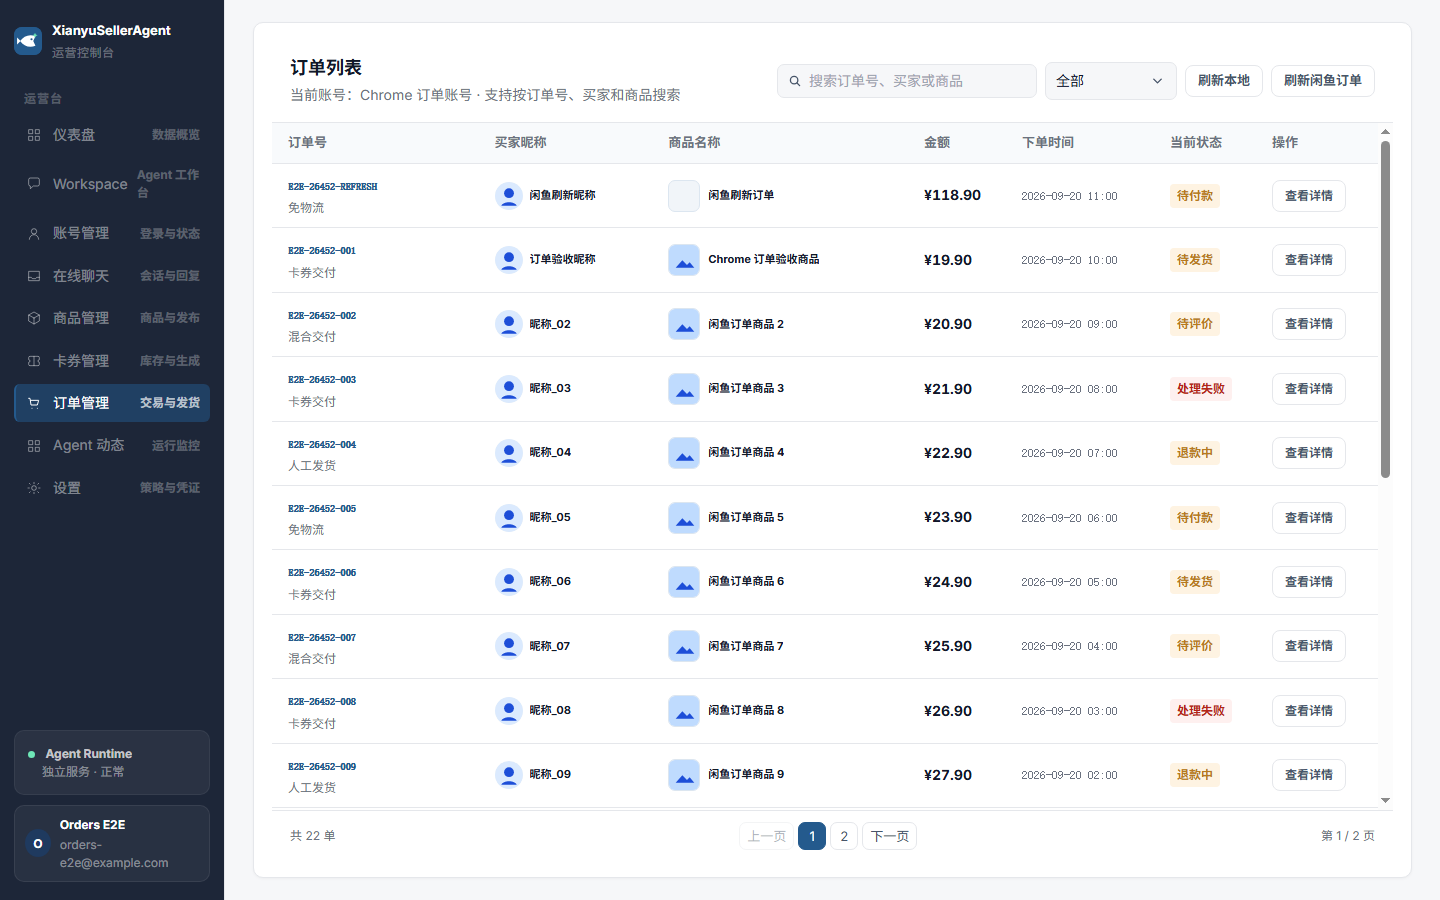
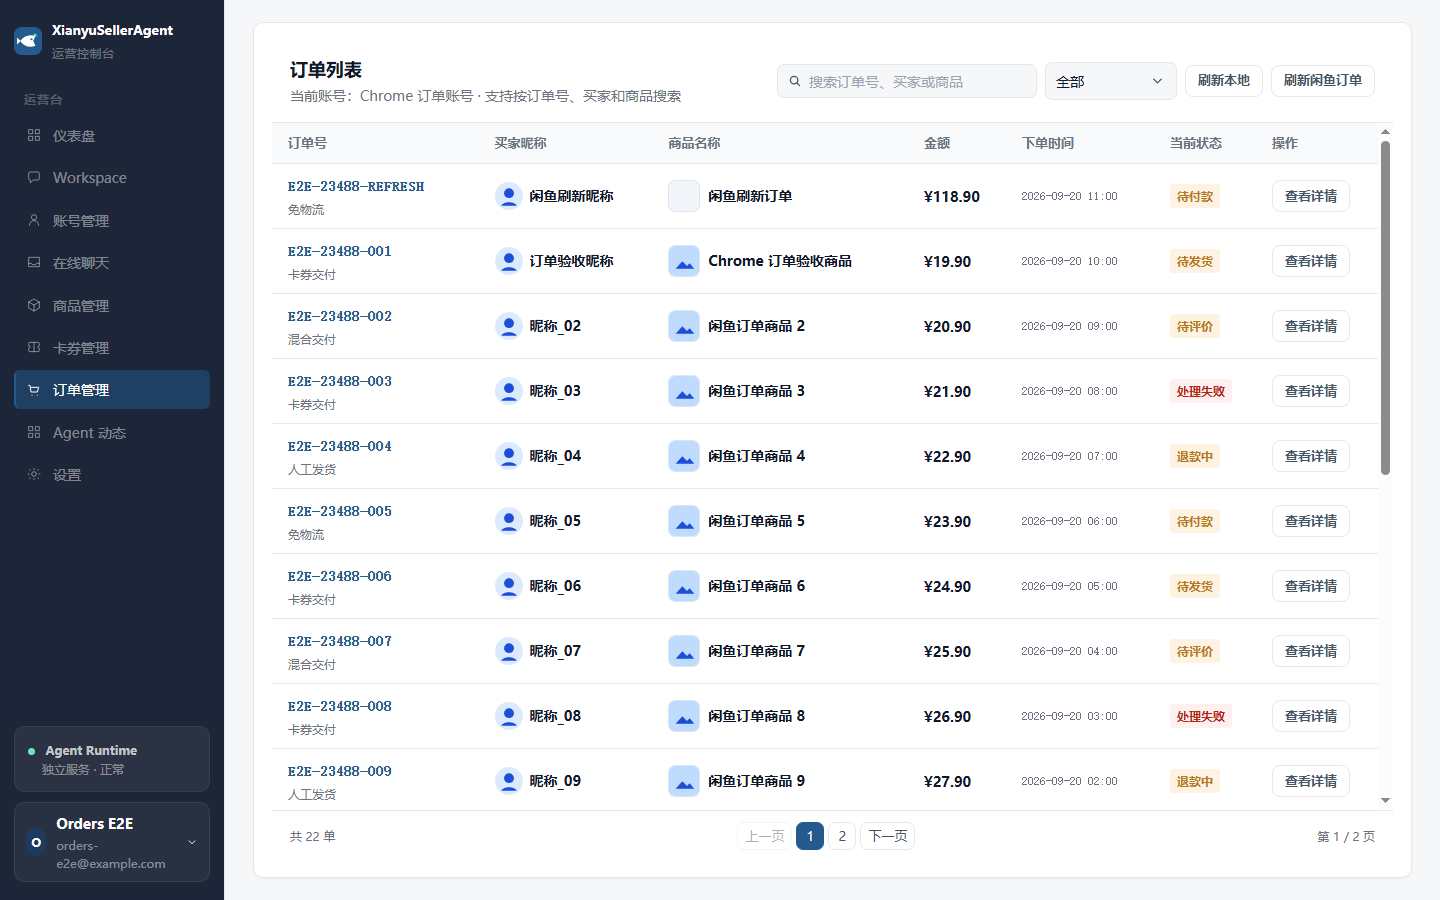
fix: align order typography and drawer screenshots

diff --git a/apps/web/src/features/orders/components/orders.css b/apps/web/src/features/orders/components/orders.css
@@ -1,51 +1,52 @@
 .orders-domain{max-width:none;min-width:0;min-height:0;height:100%}
 .orders-panel{display:flex;flex:1;min-height:0;flex-direction:column;padding:0;overflow:hidden}
 .orders-toolbar{display:flex;justify-content:space-between;align-items:center;gap:14px;padding:16px 18px;border-bottom:1px solid var(--border);background:#fff}
-.orders-toolbar h2{margin-bottom:3px;font-size:14px}
-.orders-toolbar p{font-size:11px}
+.orders-toolbar h2{margin-bottom:3px;font-size:16px;line-height:1.5}
+.orders-toolbar p{font-size:13px;line-height:1.5}
 .orders-toolbar-actions{display:flex;align-items:center;justify-content:flex-end;gap:8px;flex-wrap:wrap;min-width:0}
 .orders-toolbar-actions .orders-filter-row{flex:0 1 auto}
 .orders-filters-wrap{display:flex;justify-content:space-between;align-items:center;gap:12px;padding:12px 18px;border-bottom:1px solid var(--border);background:#fff}
 .orders-filter-row{display:flex;align-items:center;gap:8px;flex-wrap:wrap;min-width:0}
 .orders-search{width:260px;max-width:260px}
 .orders-status-select{min-width:132px}
-.orders-context-error{color:var(--danger);font-size:10px;font-weight:700;white-space:nowrap}
+.orders-context-error{color:var(--danger);font-size:12px;line-height:1.5;font-weight:700;white-space:nowrap}
 .orders-table-region{display:flex;flex:1;min-height:0;flex-direction:column}
 .orders-table-scroll{flex:1;min-height:0;max-height:none;overflow:auto;scrollbar-gutter:stable}
 .orders-table{min-width:920px;border:0}
-.orders-row{display:grid;grid-template-columns:minmax(170px,1.2fr) minmax(140px,1fr) minmax(180px,1.5fr) 88px 138px 92px 90px;gap:10px;align-items:center;min-height:64px;padding:10px 16px;border-bottom:1px solid var(--border);font-size:11px;color:var(--text)}
+.orders-row{display:grid;grid-template-columns:minmax(170px,1.2fr) minmax(140px,1fr) minmax(180px,1.5fr) 88px 138px 92px 90px;gap:10px;align-items:center;min-height:64px;padding:10px 16px;border-bottom:1px solid var(--border);font-size:14px;line-height:1.6;color:var(--text)}
 .orders-row:last-child{border-bottom:0}
-.orders-head{position:sticky;top:0;z-index:1;min-height:38px;background:#F8FAFC;color:var(--sub);font-size:10px;font-weight:700;white-space:nowrap}
-.orders-row small{display:block;margin-top:3px;color:var(--sub);font-size:9px;line-height:1.35;overflow:hidden;text-overflow:ellipsis;white-space:nowrap}
-.orders-order-link{display:block;padding:0;border:0;background:transparent;text-align:left;color:var(--link);font-size:10px}
-.orders-order-link strong{font-family:ui-monospace,SFMono-Regular,Menlo,monospace;font-size:10px}
+.orders-head{position:sticky;top:0;z-index:1;min-height:38px;background:#F8FAFC;color:var(--sub);font-size:13px;line-height:1.5;font-weight:700;white-space:nowrap}
+.orders-row small{display:block;margin-top:3px;color:var(--sub);font-size:12px;line-height:1.5;overflow:hidden;text-overflow:ellipsis;white-space:nowrap}
+.orders-order-link{display:block;padding:0;border:0;background:transparent;text-align:left;color:var(--link);font-size:14px;line-height:1.5}
+.orders-order-link strong{font-family:ui-monospace,SFMono-Regular,Menlo,monospace;font-size:14px;line-height:1.5}
 .orders-order-link:hover strong{text-decoration:underline}
 .orders-buyer{display:flex;align-items:center;gap:7px;min-width:0}
-.orders-avatar{width:28px;height:28px;min-width:28px;min-height:28px;display:grid;place-items:center;overflow:hidden;aspect-ratio:1;border-radius:50%;background:#E7EFF7;color:var(--link);font-size:11px;font-weight:800;flex:0 0 auto}
+.orders-avatar{width:28px;height:28px;min-width:28px;min-height:28px;display:grid;place-items:center;overflow:hidden;aspect-ratio:1;border-radius:50%;background:#E7EFF7;color:var(--link);font-size:12px;line-height:1.5;font-weight:800;flex:0 0 auto}
 .orders-avatar img{display:block;width:28px;height:28px;max-width:none;max-height:none;border-radius:50%;object-fit:cover;object-position:center}
-.orders-buyer strong,.orders-product strong{display:block;overflow:hidden;text-overflow:ellipsis;white-space:nowrap;font-size:11px}
+.orders-buyer strong,.orders-product strong{display:block;overflow:hidden;text-overflow:ellipsis;white-space:nowrap;font-size:14px;line-height:1.5}
 .orders-product-missing{color:var(--sub);font-weight:500}
 .orders-product{display:flex;align-items:center;gap:8px;min-width:0}
 .orders-product-thumb{width:32px;height:32px;min-width:32px;min-height:32px;display:grid;place-items:center;overflow:hidden;aspect-ratio:1;border:1px solid #DCE6F0;border-radius:7px;background:#F1F5F9}
 .orders-product-thumb img{display:block;width:32px;height:32px;max-width:none;max-height:none;object-fit:cover;object-position:center}
 .orders-amount{font-weight:800;font-variant-numeric:tabular-nums;white-space:nowrap}
-.orders-time{font-family:ui-monospace,SFMono-Regular,Menlo,monospace;font-size:10px;color:var(--sub);white-space:nowrap}
-.orders-status{display:inline-flex;align-items:center;width:max-content;max-width:100%;padding:3px 7px;border-radius:4px;font-size:10px;font-weight:700;white-space:nowrap}
+.orders-time{font-family:ui-monospace,SFMono-Regular,Menlo,monospace;font-size:12px;line-height:1.5;color:var(--sub);white-space:nowrap}
+.orders-status{display:inline-flex;align-items:center;width:max-content;max-width:100%;padding:3px 7px;border-radius:4px;font-size:12px;line-height:1.5;font-weight:700;white-space:nowrap}
 .orders-status-success{color:var(--success);background:var(--success-bg)}
 .orders-status-warn{color:var(--warn);background:var(--warn-bg)}
 .orders-status-danger{color:var(--danger);background:var(--danger-bg)}
 .orders-status-info{color:var(--info);background:var(--soft-blue-bg)}
 .orders-status-neutral{color:var(--muted);background:#F1F5F9}
 .orders-row-actions{display:flex;gap:5px;white-space:nowrap}
-.btn-small{min-height:28px;padding:5px 8px;font-size:10px}
-.orders-pagination{display:flex;justify-content:space-between;align-items:center;gap:12px;padding:11px 18px;border-top:1px solid var(--border);background:#fff;color:var(--sub);font-size:10px}
+.btn-small{min-height:28px;padding:5px 8px;font-size:13px;line-height:1.45}
+body .app-viewport .orders-domain .orders-row-actions .btn-small{font-size:13px;line-height:1.45}
+.orders-pagination{display:flex;justify-content:space-between;align-items:center;gap:12px;padding:11px 18px;border-top:1px solid var(--border);background:#fff;color:var(--sub);font-size:12px;line-height:1.5}
 .orders-pagination>div{display:flex;align-items:center;gap:4px}
-.orders-page-button{min-width:28px;height:28px;padding:0 7px;border:1px solid var(--border);border-radius:7px;background:#fff;color:var(--muted);font-size:10px}
+.orders-page-button{min-width:28px;height:28px;padding:0 7px;border:1px solid var(--border);border-radius:7px;background:#fff;color:var(--muted);font-size:13px;line-height:1.45}
 .orders-page-button:hover:not(:disabled){border-color:#B9C8D9;background:#F8FAFC}
 .orders-page-button.active{border-color:var(--link);background:var(--link);color:#fff}
 .orders-page-button:disabled{cursor:not-allowed;opacity:.45}
 .orders-page-ellipsis{padding:0 2px;color:var(--axis)}
-.orders-state{display:flex;flex-direction:column;align-items:center;justify-content:center;gap:8px;min-height:180px;padding:28px;text-align:center;color:var(--sub);font-size:11px}
+.orders-state{display:flex;flex-direction:column;align-items:center;justify-content:center;gap:8px;min-height:180px;padding:28px;text-align:center;color:var(--sub);font-size:14px;line-height:1.6}
 .orders-panel>.orders-state{flex:1;min-height:0}
 .orders-state strong{color:var(--text);font-size:13px}
 .orders-state span{max-width:420px;line-height:1.55}
@@ -56,33 +57,34 @@
 .orders-drawer-backdrop{position:fixed;inset:0;z-index:40;display:flex;justify-content:flex-end;background:rgba(17,24,39,.3);backdrop-filter:blur(5px)}
 .orders-drawer{width:min(520px,100vw);height:100%;overflow:auto;background:#fff;box-shadow:-18px 0 50px rgba(17,24,39,.16)}
 .orders-drawer-head{display:flex;justify-content:space-between;align-items:flex-start;gap:14px;padding:20px 22px 16px;border-bottom:1px solid var(--border)}
-.orders-drawer-head h2{margin-bottom:5px;font-size:17px}
-.orders-drawer-head p{font-size:11px}
+.orders-drawer-head .eyebrow{font-size:12px;line-height:1.5}
+body .app-viewport .orders-drawer-head h2{margin-bottom:5px;font-size:20px;line-height:1.35}
+body .app-viewport .orders-drawer-head p{font-size:12px;line-height:1.5}
 .orders-drawer-body{display:grid;gap:22px;padding:20px 22px 32px}
-.orders-drawer-body h3{margin-bottom:10px;font-size:12px}
+.orders-drawer-body h3{margin-bottom:10px;font-size:16px;line-height:1.5}
 .orders-detail-summary{display:grid;grid-template-columns:1fr auto;gap:5px 12px;padding:14px;border:1px solid #D6E5F2;border-radius:10px;background:linear-gradient(180deg,#FBFDFF,#F5F9FC)}
-.orders-detail-price{grid-row:span 2;color:var(--brand);font-size:26px;font-weight:800;font-variant-numeric:tabular-nums}
-.orders-detail-muted{color:var(--sub);font-size:10px;text-align:right}
+.orders-detail-price{grid-row:span 2;color:var(--brand);font-size:28px;line-height:1.2;font-weight:800;font-variant-numeric:tabular-nums}
+.orders-detail-muted{color:var(--sub);font-size:12px;line-height:1.5;text-align:right}
 .orders-status-matrix{display:grid;grid-template-columns:repeat(2,minmax(0,1fr));gap:8px}
 .orders-status-cell{display:flex;align-items:center;justify-content:space-between;gap:8px;min-height:44px;padding:10px;border:1px solid var(--border);border-radius:8px;background:#fff}
-.orders-status-cell>span{color:var(--sub);font-size:10px}
+.orders-status-cell>span{color:var(--sub);font-size:12px;line-height:1.5}
 .orders-detail-list{display:grid;gap:0;margin:0;border:1px solid var(--border);border-radius:9px;overflow:hidden}
-.orders-detail-list>div{display:grid;grid-template-columns:78px 1fr;gap:12px;padding:11px 12px;border-bottom:1px solid var(--border);font-size:11px}
+.orders-detail-list>div{display:grid;grid-template-columns:78px 1fr;gap:12px;padding:11px 12px;border-bottom:1px solid var(--border);font-size:14px;line-height:1.6}
 .orders-detail-list>div:last-child{border-bottom:0}
-.orders-detail-list dt{color:var(--sub)}
-.orders-detail-list dd{margin:0;color:var(--text);font-weight:600}
-.orders-detail-list dd small{display:block;margin-top:3px;color:var(--sub);font-size:9px;font-weight:400}
+.orders-detail-list dt{color:var(--sub);font-size:12px;line-height:1.5}
+.orders-detail-list dd{margin:0;color:var(--text);font-size:14px;line-height:1.6;font-weight:600}
+.orders-detail-list dd small{display:block;margin-top:3px;color:var(--sub);font-size:12px;line-height:1.5;font-weight:400}
 .orders-detail-list a{color:var(--link);text-decoration:none}
 .orders-detail-list a:hover{text-decoration:underline}
 .orders-risk-note{display:flex;gap:10px;padding:12px;border:1px solid rgba(180,35,24,.18);border-radius:9px;background:var(--danger-bg)}
 .orders-risk-dot{width:7px;height:7px;margin-top:5px;border-radius:50%;background:var(--danger);flex:0 0 auto}
-.orders-risk-note strong{display:block;color:var(--danger);font-size:11px}
-.orders-risk-note p{margin:4px 0 3px;color:var(--text);font-size:11px}
-.orders-risk-note small{color:var(--danger);font-size:9px;line-height:1.45}
-.orders-audit-line{display:flex;flex-wrap:wrap;gap:7px;color:var(--sub);font-size:10px}
+.orders-risk-note strong{display:block;color:var(--danger);font-size:14px;line-height:1.5}
+.orders-risk-note p{margin:4px 0 3px;color:var(--text);font-size:14px;line-height:1.6}
+.orders-risk-note small{color:var(--danger);font-size:12px;line-height:1.5}
+.orders-audit-line{display:flex;flex-wrap:wrap;gap:7px;color:var(--sub);font-size:12px;line-height:1.5}
 .orders-audit-line span{padding:5px 7px;border-radius:6px;background:#F8FAFC}
-.orders-drawer-state{display:flex;flex-direction:column;align-items:center;justify-content:center;gap:10px;min-height:260px;padding:24px;color:var(--sub);font-size:11px;text-align:center}
-.orders-drawer-state strong{color:var(--text);font-size:13px}
+.orders-drawer-state{display:flex;flex-direction:column;align-items:center;justify-content:center;gap:10px;min-height:260px;padding:24px;color:var(--sub);font-size:14px;line-height:1.6;text-align:center}
+.orders-drawer-state strong{color:var(--text);font-size:15px;line-height:1.5}
 
 @media(max-width:900px){
   .orders-toolbar,.orders-filters-wrap{align-items:stretch;flex-direction:column}
@@ -104,7 +106,7 @@
   .orders-row:not(.orders-head)>:nth-child(5){grid-column:1/-1}
   .orders-row:not(.orders-head)>:nth-child(6){grid-column:1/-1}
   .orders-row:not(.orders-head)>:nth-child(7){grid-column:1/-1}
-  .orders-time{font-size:10px}
+  .orders-time{font-size:12px;line-height:1.5}
   .orders-pagination{align-items:stretch;flex-direction:column;padding:12px 16px}
   .orders-pagination>div{justify-content:center;order:3}
   .orders-drawer{width:100%;height:auto;max-height:92vh;border-radius:16px 16px 0 0;align-self:flex-end}

diff --git a/apps/web/src/features/orders/components/orders-typography.test.ts b/apps/web/src/features/orders/components/orders-typography.test.ts
@@ -1,0 +1,45 @@
+import { readFileSync } from 'node:fs';
+import { fileURLToPath } from 'node:url';
+import { describe, expect, it } from 'vitest';
+
+const ordersCss = readFileSync(fileURLToPath(new URL('./orders.css', import.meta.url)), 'utf8').replace(/\r\n/g, '\n');
+
+describe('order list and detail typography', () => {
+  it('keeps order table cells readable with the shared type scale', () => {
+    expect(ordersCss).toMatch(/\.orders-row\s*\{[^}]*font-size:\s*14px;[^}]*line-height:\s*1\.6;?/s);
+    expect(ordersCss).toMatch(/\.orders-head\s*\{[^}]*font-size:\s*13px;[^}]*line-height:\s*1\.5;?/s);
+    expect(ordersCss).toMatch(/\.orders-row small\s*\{[^}]*font-size:\s*12px;[^}]*line-height:\s*1\.5;?/s);
+    expect(ordersCss).toMatch(/\.orders-order-link\s*\{[^}]*font-size:\s*14px;[^}]*line-height:\s*1\.5;?/s);
+    expect(ordersCss).toMatch(/\.orders-order-link strong\s*\{[^}]*font-size:\s*14px;[^}]*line-height:\s*1\.5;?/s);
+    expect(ordersCss).toMatch(/\.orders-buyer strong,\.orders-product strong\s*\{[^}]*font-size:\s*14px;[^}]*line-height:\s*1\.5;?/s);
+    expect(ordersCss).toMatch(/\.orders-time\s*\{[^}]*font-size:\s*12px;[^}]*line-height:\s*1\.5;?/s);
+    expect(ordersCss).toMatch(/\.orders-status\s*\{[^}]*font-size:\s*12px;[^}]*line-height:\s*1\.5;?/s);
+    expect(ordersCss).toMatch(/\.btn-small\s*\{[^}]*font-size:\s*13px;[^}]*line-height:\s*1\.45;?/s);
+    expect(ordersCss).toMatch(/body \.app-viewport \.orders-domain \.orders-row-actions \.btn-small\s*\{[^}]*font-size:\s*13px;[^}]*line-height:\s*1\.45;?/s);
+    expect(ordersCss).toMatch(/\.orders-pagination\s*\{[^}]*font-size:\s*12px;[^}]*line-height:\s*1\.5;?/s);
+    expect(ordersCss).toMatch(/\.orders-page-button\s*\{[^}]*font-size:\s*13px;[^}]*line-height:\s*1\.45;?/s);
+    expect(ordersCss).not.toMatch(/\.orders-row\s*\{[^}]*font-size:\s*1[01]px;/s);
+    expect(ordersCss).not.toMatch(/\.orders-row small\s*\{[^}]*font-size:\s*9px;/s);
+  });
+
+  it('keeps order detail drawer headings, body text, and metadata readable', () => {
+    expect(ordersCss).toMatch(/\.orders-drawer-head \.eyebrow\s*\{[^}]*font-size:\s*12px;[^}]*line-height:\s*1\.5;?/s);
+    expect(ordersCss).toMatch(/body \.app-viewport \.orders-drawer-head h2\s*\{[^}]*font-size:\s*20px;[^}]*line-height:\s*1\.35;?/s);
+    expect(ordersCss).toMatch(/body \.app-viewport \.orders-drawer-head p\s*\{[^}]*font-size:\s*12px;[^}]*line-height:\s*1\.5;?/s);
+    expect(ordersCss).toMatch(/\.orders-drawer-state\s*\{[^}]*font-size:\s*14px;[^}]*line-height:\s*1\.6;?/s);
+    expect(ordersCss).toMatch(/\.orders-drawer-body h3\s*\{[^}]*font-size:\s*16px;[^}]*line-height:\s*1\.5;?/s);
+    expect(ordersCss).toMatch(/\.orders-detail-muted\s*\{[^}]*font-size:\s*12px;[^}]*line-height:\s*1\.5;?/s);
+    expect(ordersCss).toMatch(/\.orders-status-cell>span\s*\{[^}]*font-size:\s*12px;[^}]*line-height:\s*1\.5;?/s);
+    expect(ordersCss).toMatch(/\.orders-detail-list>div\s*\{[^}]*font-size:\s*14px;[^}]*line-height:\s*1\.6;?/s);
+    expect(ordersCss).toMatch(/\.orders-detail-list dt\s*\{[^}]*font-size:\s*12px;[^}]*line-height:\s*1\.5;?/s);
+    expect(ordersCss).toMatch(/\.orders-detail-list dd\s*\{[^}]*font-size:\s*14px;[^}]*line-height:\s*1\.6;?/s);
+    expect(ordersCss).toMatch(/\.orders-detail-list dd small\s*\{[^}]*font-size:\s*12px;[^}]*line-height:\s*1\.5;?/s);
+    expect(ordersCss).toMatch(/\.orders-risk-note strong\s*\{[^}]*font-size:\s*14px;[^}]*line-height:\s*1\.5;?/s);
+    expect(ordersCss).toMatch(/\.orders-risk-note p\s*\{[^}]*font-size:\s*14px;[^}]*line-height:\s*1\.6;?/s);
+    expect(ordersCss).toMatch(/\.orders-risk-note small\s*\{[^}]*font-size:\s*12px;[^}]*line-height:\s*1\.5;?/s);
+    expect(ordersCss).toMatch(/\.orders-audit-line\s*\{[^}]*font-size:\s*12px;[^}]*line-height:\s*1\.5;?/s);
+    expect(ordersCss).toMatch(/\.orders-drawer-state strong\s*\{[^}]*font-size:\s*15px;[^}]*line-height:\s*1\.5;?/s);
+    expect(ordersCss).not.toMatch(/\.orders-detail-list dd small\s*\{[^}]*font-size:\s*9px;/s);
+    expect(ordersCss).not.toMatch(/\.orders-risk-note small\s*\{[^}]*font-size:\s*9px;/s);
+  });
+});

diff --git a/docs/agent-worktree-registry.md b/docs/agent-worktree-registry.md
@@ -23,6 +23,7 @@
 
 | agent_id | slice_id | branch | worktree | owner | created_at | status | merge_commit | cleaned_at | notes |
 | --- | --- | --- | --- | --- | --- | --- | --- | --- | --- |
+| `root` | `orders-typography-20260922` | `fix/orders-typography-20260922` | `F:\ChenHai\Project\XianYuAgent-orders-typography-20260922` | Codex `/root` | `2026-09-22 23:59:18 +08:00` | `READY_FOR_REVIEW` | `-` | `-` | 订单表格正文 14px、表头 13px、时间/状态元数据 12px、按钮 13px；详情抽屉标题 20px、分区标题 16px、正文 14px、元数据 12px，并补充高优先级覆盖以抵御全局 typography 级联。订单定向 Vitest 8 文件/20 测试、Web typecheck、Web build、API build、Chrome/CDP 订单 E2E（含 computed-style 断言与桌面/移动列表及抽屉截图）通过；完整 Web Vitest 仍有 2 个既有 workspace/dashboard 失败，与本切片无关。 |
 | `root` | `products-detail-drawer-font-20260922` | `codex/products-detail-drawer-font-20260922` | `F:\ChenHai\Project\XianYuAgent-products-detail-drawer-font-20260922` | Codex `/root` | `2026-09-22 19:29:42 +08:00` | `CLEANED` | `a940fe5` / `8114c74` / `97310dd` | `2026-09-22 19:48:57 +08:00` | 商品详情抽屉正文 14px，标题/指标保留强调，来源/时间 12px，技术字段不低于 12px；补强抽屉标题级联保护为 20px。产品域 9 个测试文件/32 个测试、typecheck、build 通过。Chrome/CDP 字号断言通过，后续在既有空态布局断言处失败。Git worktree、分支、登记锁及本地目录已清理。 |
 | `root` | `workspace-chatgpt-ui-e2e-20260922` | `codex/workspace-chatgpt-ui-e2e-20260922` | `F:\ChenHai\Project\XianYuAgent-workspace-chatgpt-ui-e2e-20260922` | Codex `/root` | `2026-09-22 18:45:00 +08:00` | `READY_FOR_REVIEW` | `-` | `-` | 保留原始 Workspace HTML 设计稿，新增 v2 纵向 PC/Mobile 预览；实现 ChatGPT 式单列消息流、无头像与 reasoning/tool 默认折叠执行摘要；真实浏览器→API→PostgreSQL E2E 已通过，提交 `31f25d3` 待复审。 |
 | `root` | `products-table-font-20260922` | `codex/products-table-font-20260922` | `F:\ChenHai\Project\XianYuAgent-products-table-font-20260922` | Codex `/root` | `2026-09-22 19:07:34 +08:00` | `CLEANED` | `cf065d1` | `2026-09-22 19:21:51 +08:00` | 商品目录表格正文/标题主文本 14px，标题副信息/时间元数据 12px，表头 13px，分页按钮 13px；产品域 8 个 Vitest 文件/31 个测试、typecheck、build 通过。Chrome/CDP 已通过字号断言，后续在既有空态布局断言处失败，属独立存量问题。worktree 与分支已清理。 |
